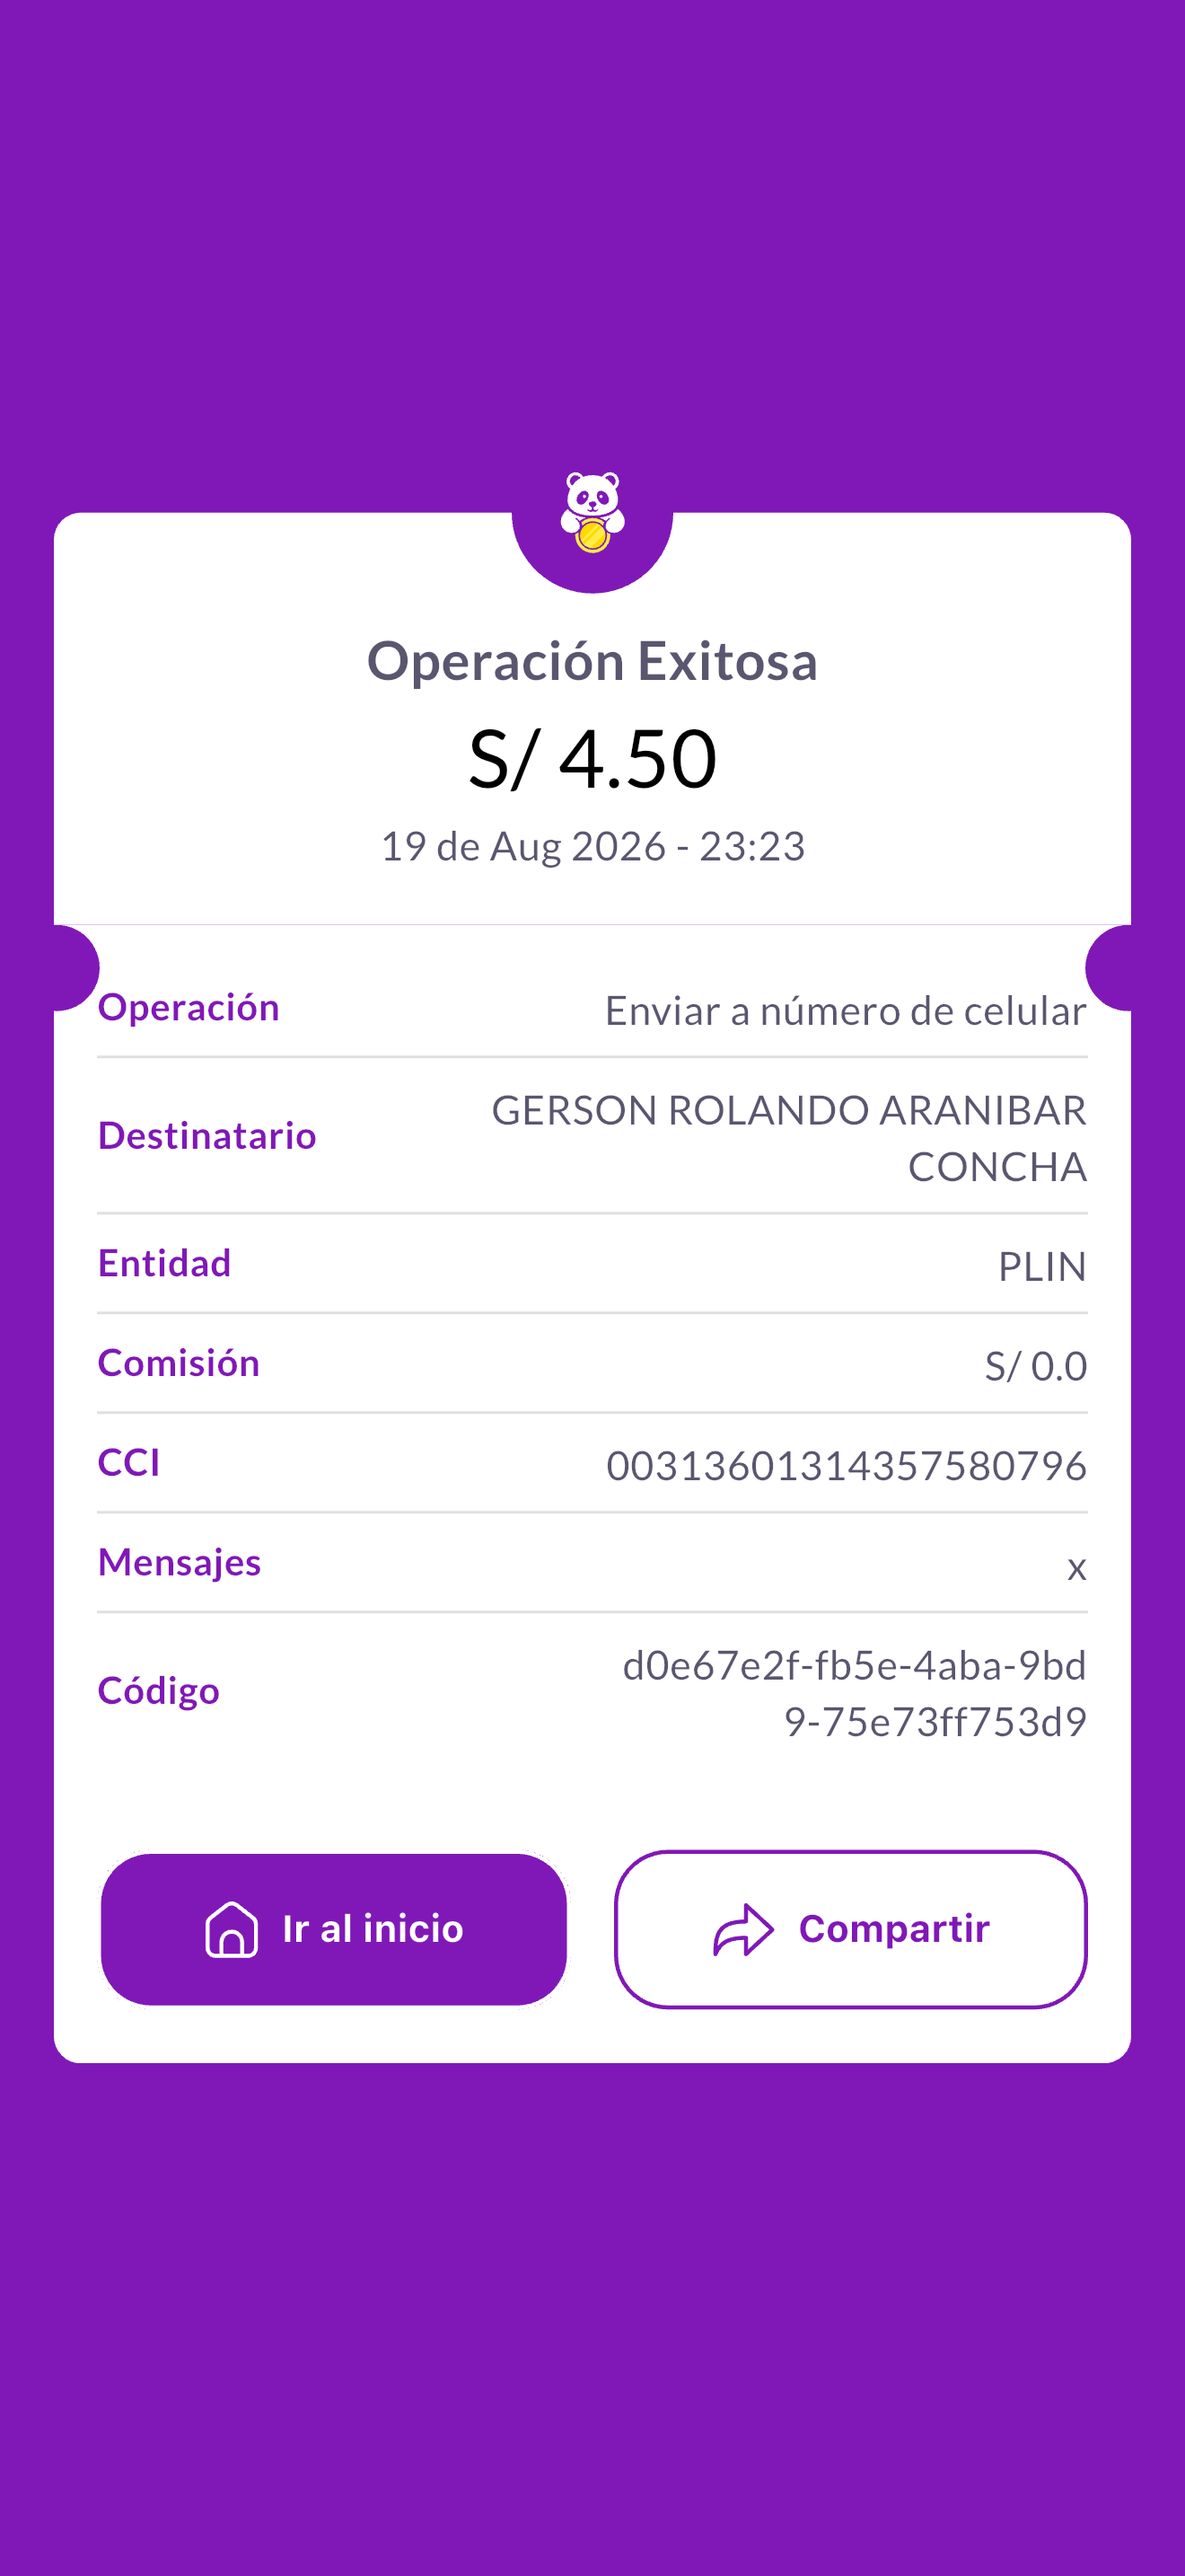
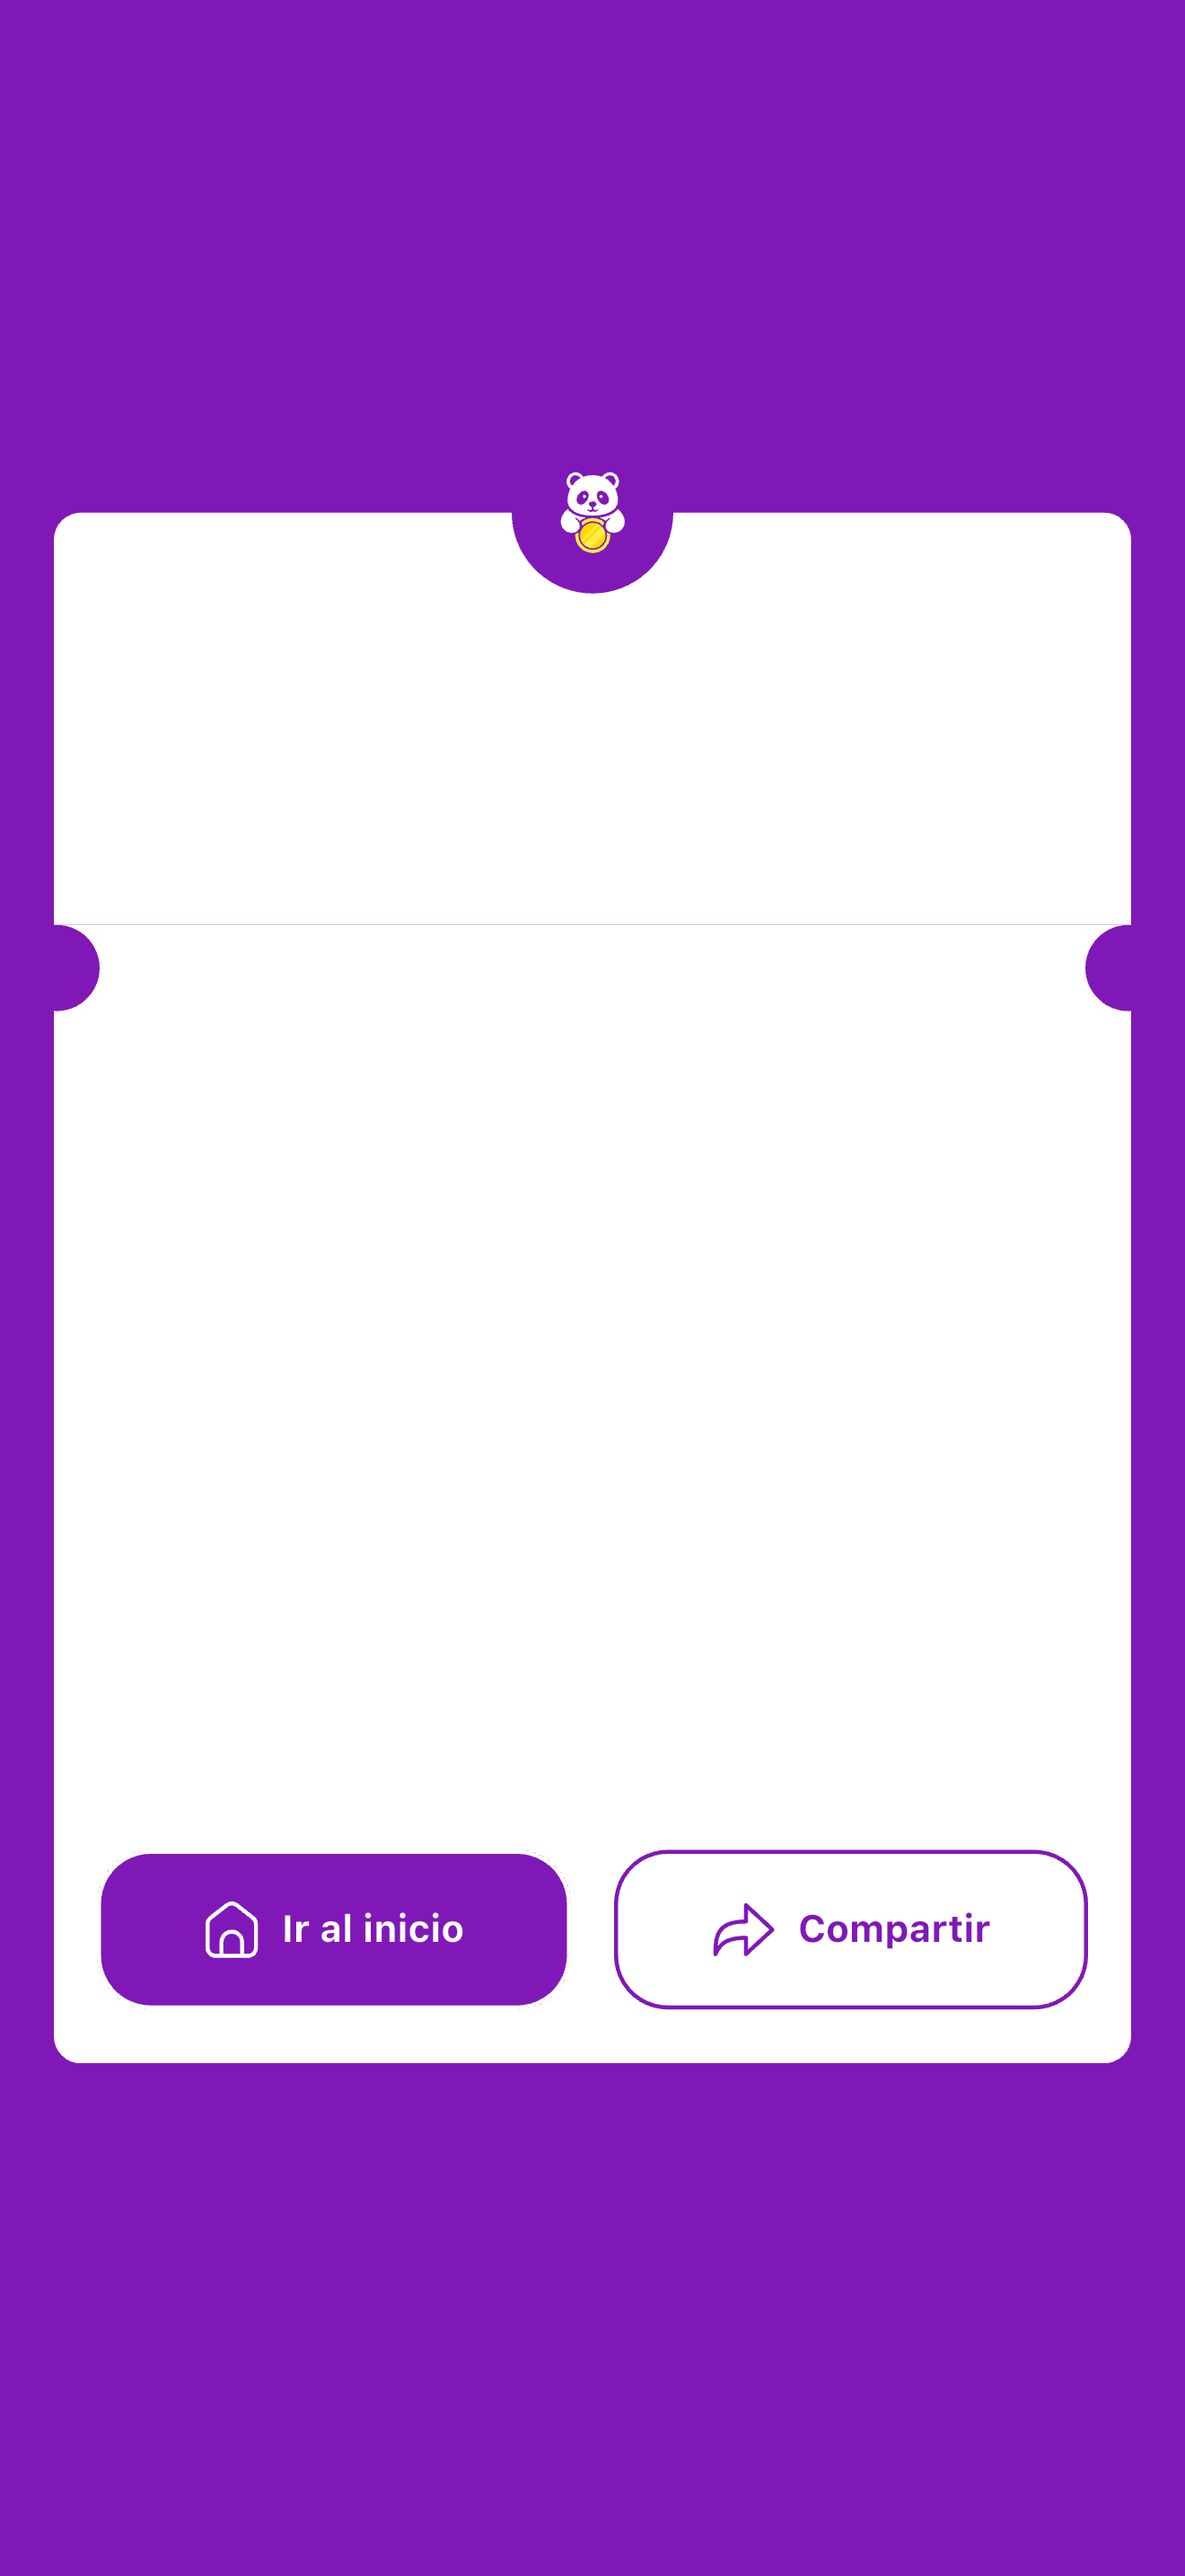
save changes

diff --git a/resources/templates/panda.html b/resources/templates/panda.html
@@ -4,10 +4,7 @@
 <head>
    <meta charset="UTF-8">
    <meta name="viewport" content="width=device-width, initial-scale=1.0, maximum-scale=1.0, user-scalable=no">
-   <title>Recibo</title>
-   <link rel="stylesheet" href="https://unpkg.com/primeflex@3.3.1/primeflex.css">
-   <link rel="preconnect" href="https://fonts.googleapis.com">
-   <link href="https://fonts.googleapis.com/css2?family=Quicksand:wght@400;500;600;700&display=swap" rel="stylesheet">
+
    <style>
       * {
          margin: 0;
@@ -15,106 +12,176 @@
          box-sizing: border-box;
       }
 
+      @font-face {
+         font-family: "Quicksand";
+         src: url('{{FONT_BASE64}}') format('woff2');
+         font-weight: 400 700;
+      }
+
       html,
       body {
-         font-family: 'Quicksand', sans-serif;
-         color: #4a4a4a;
-         min-height: 100vh;
+         font-family: "Quicksand", sans-serif;
+         color: #726F84;
          width: 100%;
          position: relative;
+         margin: 0;
+      }
+
+      body {
+         background: #fff;
       }
 
       body::after {
          content: "";
          position: fixed;
          inset: 0;
-         background: url('../images/panda.png') top center / cover no-repeat;
+         background: url('{{BACKGROUND}}') top center / cover no-repeat;
          z-index: -1;
          pointer-events: none;
       }
 
+      .container {
+         margin-left: 2rem;
+         margin-right: 2rem;
+         padding-left: 0.25rem;
+         padding-right: 0.25rem;
+      }
+
+      .row {
+         padding-top: 0.5rem;
+         padding-bottom: 0.5rem;
+         line-height: 1.3;
+         justify-content: space-between;
+         display: flex;
+      }
+
+      .border {
+         border-bottom: 1.5px solid #EDEDED;
+      }
 
       .label {
-         color: #8e2fb0;
-         font-weight: 600;
-         font-size: 1.05rem;
+         color: #8018B7;
+         font-weight: 700;
+         font-size: 1rem;
+         display: flex;
+         align-items: center;
       }
 
       .value {
          font-weight: 500;
          text-align: right;
-         font-size: 1.05rem;
+         font-size: 1rem;
+         max-width: 230px;
+         word-break: break-word;
       }
 
-      .monto {
-         font-weight: 700;
-         font-size: 3.2rem;
-         color: #222;
+      .box {
+         margin-top: 14.25rem;
+         margin-bottom: 2rem;
+         text-align: center;
       }
 
       .titulo {
-         font-size: 1.4rem;
-         font-weight: 500;
+         color: #5A566F;
+         font-size: 1.2rem;
+         font-weight: 700;
+      }
+
+      .monto {
+         font-weight: 600;
+         font-size: 2rem;
+         margin-bottom: 0.35rem;
+         color: #000000;
       }
 
       .fecha {
          font-size: 1rem;
-         color: #888;
-      }
-
-
-      .amount {
-         margin-top: 15rem;
       }
    </style>
 </head>
 
 <body>
 
-
    <div>
-      <div class="amount text-center">
-         <div class="titulo">Operación Exitosa</div>
-         <div class="monto">S/ 4.50</div>
-         <div class="fecha">19 de Aug 2026 - 23:23</div>
+      <div class="box">
+
+         <div class="titulo">
+            Operación Exitosa
+         </div>
+
+         <div class="monto">
+            S/ {{MONTO}}
+         </div>
+
+         <div class="fecha">
+            {{FECHA}} - {{HORA}}
+         </div>
+
       </div>
    </div>
 
-   <div class="">
+   <div class="container">
 
-      <div class="flex justify-content-between py-2">
-         <span class="label">Operación</span>
-         <span class="value">Enviar a número de celular</span>
+      <div class="row border">
+         <span class="label">
+            Operación
+         </span>
+
+         <span class="value">
+            Enviar a número de celular
+         </span>
       </div>
 
-      <div class="flex justify-content-between py-2">
-         <span class="label">Destinatario</span>
-         <span class="value">GERSON ROLANDO ARANIBAR CONCHA</span>
+      <div class="row border">
+         <span class="label">
+            Destinatario
+         </span>
+
+         <span class="value">
+            {{DESTINATARIO}}
+         </span>
       </div>
 
-      <div class="flex justify-content-between py-2">
-         <span class="label">Entidad</span>
-         <span class="value">PLIN</span>
+      <div class="row border">
+         <span class="label">
+            Entidad
+         </span>
+
+         <span class="value">
+            {{ENTIDAD}}
+         </span>
       </div>
 
-      <div class="flex justify-content-between py-2">
-         <span class="label">Comisión</span>
-         <span class="value">S/ 0.0</span>
+      <div class="row border">
+         <span class="label">
+            Comisión
+         </span>
+
+         <span class="value">
+            S/ 0.00
+         </span>
       </div>
 
-      <div class="flex justify-content-between py-2">
-         <span class="label">CCI</span>
-         <span class="value">00313601314357580796</span>
+      <div class="row border">
+         <span class="label">
+            CCI
+         </span>
+
+         <span class="value">
+            {{CCI}}
+         </span>
       </div>
 
-      <div class="flex justify-content-between py-2">
-         <span class="label">Mensajes</span>
-         <span class="value">x</span>
-      </div>
+      {{MENSAJES_ROW}}
 
-      <div class="flex justify-content-between py-2">
-         <span class="label">Código</span>
-         <span class="value">d0e67e2f-fb5e-4aba-9bd9-75e73ff753d9</span>
+      <div class="row">
+         <span class="label">
+            Código
+         </span>
+
+         <span class="value">
+            {{CODIGO}}
+         </span>
       </div>
 
    </div>

diff --git a/api/services/panda.js b/api/services/panda.js
@@ -1,0 +1,105 @@
+const crypto = require("crypto");
+const { createBrowserPool, readResource } = require("../../utils/browser");
+
+const TEMPLATE_HTML = readResource("#resources/templates/panda.html");
+const FONT_BASE64 = readResource("#resources/fonts/Quicksand.woff2");
+const BACKGROUND = readResource("#resources/images/panda.png");
+
+const pool = createBrowserPool();
+
+function formatFecha() {
+  const meses = ["Ene", "Feb", "Mar", "Abr", "May", "Jun", "Jul", "Ago", "Sep", "Oct", "Nov", "Dic"];
+
+  const now = new Date();
+
+  return `${now.getDate()} de ${meses[now.getMonth()]} ${now.getFullYear()}`;
+}
+
+function formatHora() {
+  const now = new Date();
+
+  const horas = now.getHours().toString().padStart(2, "0");
+  const minutos = now.getMinutes().toString().padStart(2, "0");
+
+  return `${horas}:${minutos}`;
+}
+
+function formatMonto(monto) {
+  return Number(monto).toLocaleString("en-US", {
+    minimumFractionDigits: 2,
+    maximumFractionDigits: 2,
+  });
+}
+
+function escapeHtml(value) {
+  return String(value ?? "")
+    .replace(/&/g, "&amp;")
+    .replace(/</g, "&lt;")
+    .replace(/>/g, "&gt;")
+    .replace(/"/g, "&quot;")
+    .replace(/'/g, "&#039;");
+}
+
+function generarCCI() {
+  // CCI peruano de 20 dígitos
+  let cci = "";
+
+  for (let i = 0; i < 20; i++) {
+    cci += Math.floor(Math.random() * 10);
+  }
+
+  return cci;
+}
+
+function generarCodigo() {
+  return crypto.randomUUID();
+}
+
+function buildHtml({ monto, nombre, destino, mensaje }) {
+  const cci = generarCCI();
+  const codigo = generarCodigo();
+
+  const mensajeLimpio = String(mensaje ?? "").trim();
+
+  const mensajeRow = mensajeLimpio
+    ? `
+      <div class="row border">
+         <span class="label">
+            Mensajes
+         </span>
+
+         <span class="value">
+            ${escapeHtml(mensajeLimpio)}
+         </span>
+      </div>
+    `
+    : "";
+
+  return TEMPLATE_HTML.replace("{{FONT_BASE64}}", FONT_BASE64)
+    .replace("{{BACKGROUND}}", BACKGROUND)
+
+    .replace("{{MONTO}}", formatMonto(monto))
+    .replace("{{DESTINATARIO}}", escapeHtml(nombre))
+    .replace("{{ENTIDAD}}", escapeHtml(destino))
+
+    .replace("{{CCI}}", cci)
+    .replace("{{CODIGO}}", codigo)
+
+    .replace("{{FECHA}}", formatFecha())
+    .replace("{{HORA}}", formatHora())
+
+    .replace("{{MENSAJES_ROW}}", mensajeRow);
+}
+
+async function generateVoucher(data) {
+  return pool.withPage(async (page) => {
+    await page.setViewport({ width: 430, height: 932, deviceScaleFactor: 3 });
+    await page.setContent(buildHtml(data), { waitUntil: "networkidle2" });
+    const buffer = await page.screenshot({ type: "jpeg", quality: 85, fullPage: true });
+    return buffer.toString("base64");
+  });
+}
+
+module.exports = {
+  generateVoucher,
+};

diff --git a/resources/templates/_docs.html b/resources/templates/_docs.html
@@ -729,6 +729,7 @@
          { path: '/sip', label: 'Sip', default: 'Sip', cantidad: [3], capture: 'sip.jpg' },
          { path: '/agora', label: 'Agora', default: 'AGORA/OH!', cantidad: [3, 9], capture: 'agora.jpg' },
          { path: '/lemon', label: 'Lemon', default: 'Yape', cantidad: [3], capture: 'lemon.jpg' },
+         { path: '/panda', label: 'Panda', default: 'Yape', cantidad: [0], capture: 'panda.png' },
          { path: '/prexpe', label: 'Prexpe', default: 'Prexpe', cantidad: [0], capture: 'prexpe.jpg' },
          { path: '/bcp', label: 'BCP', default: 'Yape', cantidad: [3], capture: 'bcp.jpg' },
          { path: '/ibk', label: 'IBK', default: 'Plin', cantidad: [3, 9], capture: 'interbank.jpg', ratio: '680 / 860' },
@@ -744,8 +745,8 @@
 
       // Los 7 primeros son billeteras digitales, el resto son bancas.
       const PILL_GROUPS = [
-         { label: 'BILLETERAS', start: 0, end: 7 },
-         { label: 'BANCAS', start: 7, end: VOUCHERS.length },
+         { label: 'BILLETERAS', start: 0, end: 8 },
+         { label: 'BANCAS', start: 8, end: VOUCHERS.length },
       ];
 
       const PARAMS = [

diff --git a/api/config/config.js b/api/config/config.js
@@ -11,6 +11,7 @@ const { generateVoucher: generateBbva } = require("../services/bbva");
 const { generateVoucher: generateRipley } = require("../services/ripley");
 const { generateVoucher: generateFalabella } = require("../services/falabella");
 const { generateVoucher: generateScotiabank } = require("../services/scotiabank");
+const { generateVoucher: generatePanda } = require("../services/panda");
 const { generateVoucher: generateCaja } = require("../services/caja");
 
 // Lista de ejemplos compartida entre el mensaje de error y el de ayuda/galería.
@@ -75,6 +76,11 @@ const CONFIG = {
     service: generateLemon,
     destinoDefault: "Yape",
     cantidad: [3],
+  },
+  panda: {
+    service: generatePanda,
+    destinoDefault: "Yape",
+    cantidad: [0],
   },
   prexpe: {
     service: generatePrexpe,

diff --git a/index.js b/index.js
@@ -48,7 +48,8 @@ async function startBot() {
     { command: "sip", description: "Generar Voucher Sip" },
     { command: "agora", description: "Generar Voucher Agora" },
     { command: "lemon", description: "Generar Voucher Lemon" },
-    { command: "prexpe", description: "Generar Prexpe" },
+    { command: "panda", description: "Generar Voucher Panda" },
+    { command: "prexpe", description: "Generar Voucher Prexpe" },
     { command: "bcp", description: "Generar Voucher BCP" },
     { command: "ibk", description: "Generar Voucher Interbank" },
     { command: "bbva", description: "Generar Voucher BBVA" },
